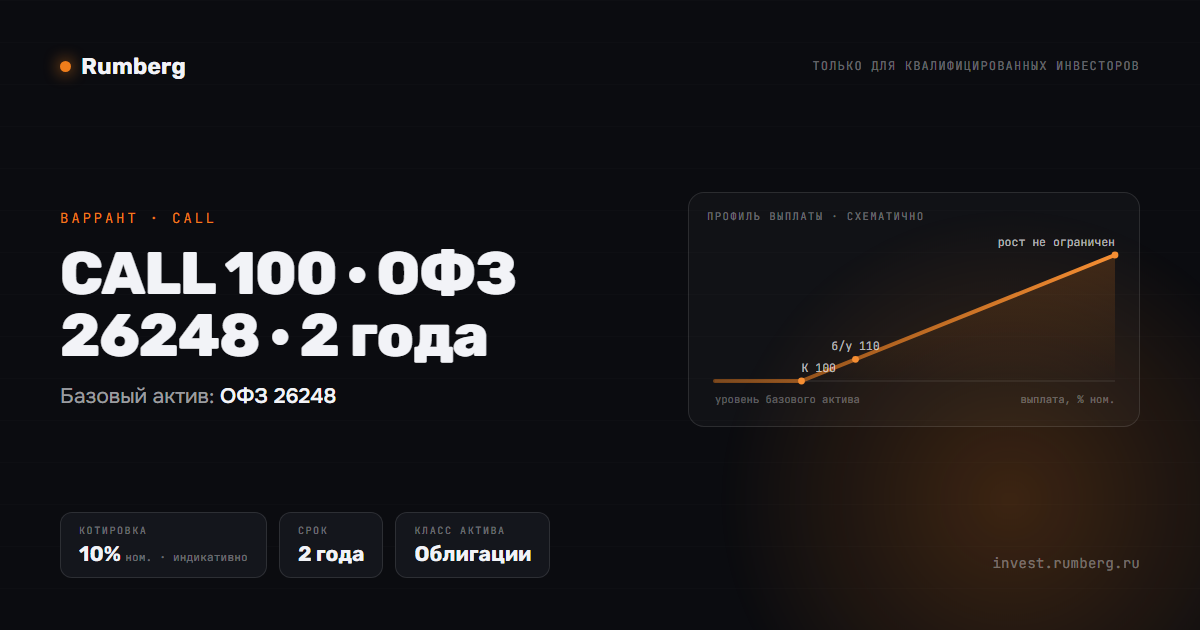
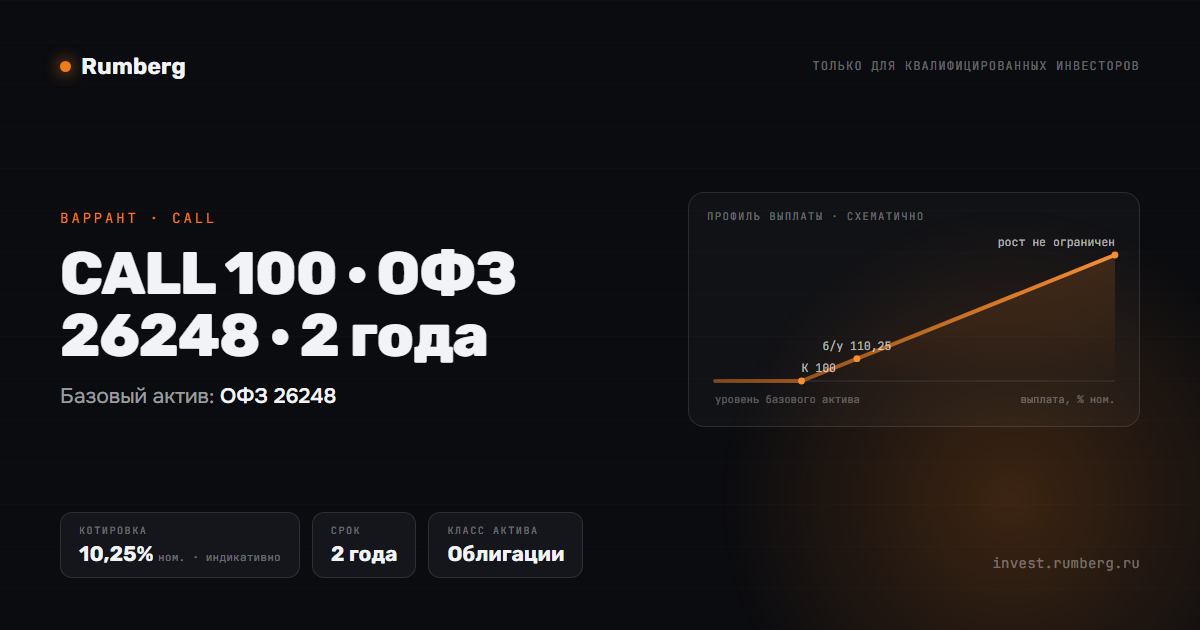
Доска: новые цены четырёх рублёвых варрантов по прайсеру
Сверка 28.10.2026: цена прайсера / 0,8 с округлением вверх до 0,25.
- CALL 100 · худшая из Полюс/Сбер/Лукойл · 2 года: 13,75 → 17,5
  (справедливая 13,81 — доска стояла ниже неё)
- CALL 100 · худшая из Яндекс/Новатэк/Лукойл · 2 года: 16,5 → 21,5
  (справедливая 17,12)
- CALL 105 · ОФЗ 26248 · 2 года: 7 → 8,75 (справедливая 6,86)
- CALL 100 · ОФЗ 26248 · 2 года: 10 → 10,25 (справедливая 8,13)

ОФЗ посчитаны от биржевой цены 80,19 (spot_overrides): условная ОФЗ
у прайсера стоит по 93, и от неё колл выходит дороже. Ставка 14%.
Перегенерированы превью p/ и og-картинки этих продуктов.

Changed region(s): [[0.0925, 0.8143, 0.4933, 0.9048], [0.6783, 0.5429, 0.74, 0.573]]

diff --git a/p/W-WO3YNL-C100-1028.html b/p/W-WO3YNL-C100-1028.html
@@ -4,12 +4,12 @@
 <meta charset="utf-8">
 <meta name="viewport" content="width=device-width, initial-scale=1">
 <title>CALL 100 · худшая из корзины · 2 года — Rumberg</title>
-<meta name="description" content="Варрант на Яндекс / Новатэк / Лукойл · котировка 16,5% от номинала · Rumberg — структурные продукты для квалифицированных инвесторов">
+<meta name="description" content="Варрант на Яндекс / Новатэк / Лукойл · котировка 21,5% от номинала · Rumberg — структурные продукты для квалифицированных инвесторов">
 <meta property="og:type" content="website">
 <meta property="og:site_name" content="Rumberg">
 <meta property="og:locale" content="ru_RU">
 <meta property="og:title" content="CALL 100 · худшая из корзины · 2 года">
-<meta property="og:description" content="Варрант на Яндекс / Новатэк / Лукойл · котировка 16,5% от номинала · Rumberg — структурные продукты для квалифицированных инвесторов">
+<meta property="og:description" content="Варрант на Яндекс / Новатэк / Лукойл · котировка 21,5% от номинала · Rumberg — структурные продукты для квалифицированных инвесторов">
 <meta property="og:url" content="https://invest.rumberg.ru/p/W-WO3YNL-C100-1028.html">
 <meta property="og:image" content="https://invest.rumberg.ru/og/W-WO3YNL-C100-1028.png">
 <meta property="og:image:width" content="1200">

diff --git a/p/W-WO3-C100-0828.html b/p/W-WO3-C100-0828.html
@@ -4,12 +4,12 @@
 <meta charset="utf-8">
 <meta name="viewport" content="width=device-width, initial-scale=1">
 <title>CALL 100 · худшая из корзины · 2 года — Rumberg</title>
-<meta name="description" content="Варрант на Полюс / Сбербанк / Лукойл · котировка 13,75% от номинала · Rumberg — структурные продукты для квалифицированных инвесторов">
+<meta name="description" content="Варрант на Полюс / Сбербанк / Лукойл · котировка 17,5% от номинала · Rumberg — структурные продукты для квалифицированных инвесторов">
 <meta property="og:type" content="website">
 <meta property="og:site_name" content="Rumberg">
 <meta property="og:locale" content="ru_RU">
 <meta property="og:title" content="CALL 100 · худшая из корзины · 2 года">
-<meta property="og:description" content="Варрант на Полюс / Сбербанк / Лукойл · котировка 13,75% от номинала · Rumberg — структурные продукты для квалифицированных инвесторов">
+<meta property="og:description" content="Варрант на Полюс / Сбербанк / Лукойл · котировка 17,5% от номинала · Rumberg — структурные продукты для квалифицированных инвесторов">
 <meta property="og:url" content="https://invest.rumberg.ru/p/W-WO3-C100-0828.html">
 <meta property="og:image" content="https://invest.rumberg.ru/og/W-WO3-C100-0828.png">
 <meta property="og:image:width" content="1200">

diff --git a/p/W-OFZ248-C100-1028.html b/p/W-OFZ248-C100-1028.html
@@ -4,12 +4,12 @@
 <meta charset="utf-8">
 <meta name="viewport" content="width=device-width, initial-scale=1">
 <title>CALL 100 · ОФЗ 26248 · 2 года — Rumberg</title>
-<meta name="description" content="Варрант на ОФЗ 26248 · котировка 10% от номинала · Rumberg — структурные продукты для квалифицированных инвесторов">
+<meta name="description" content="Варрант на ОФЗ 26248 · котировка 10,25% от номинала · Rumberg — структурные продукты для квалифицированных инвесторов">
 <meta property="og:type" content="website">
 <meta property="og:site_name" content="Rumberg">
 <meta property="og:locale" content="ru_RU">
 <meta property="og:title" content="CALL 100 · ОФЗ 26248 · 2 года">
-<meta property="og:description" content="Варрант на ОФЗ 26248 · котировка 10% от номинала · Rumberg — структурные продукты для квалифицированных инвесторов">
+<meta property="og:description" content="Варрант на ОФЗ 26248 · котировка 10,25% от номинала · Rumberg — структурные продукты для квалифицированных инвесторов">
 <meta property="og:url" content="https://invest.rumberg.ru/p/W-OFZ248-C100-1028.html">
 <meta property="og:image" content="https://invest.rumberg.ru/og/W-OFZ248-C100-1028.png">
 <meta property="og:image:width" content="1200">

diff --git a/p/W-OFZ248-C105-1028.html b/p/W-OFZ248-C105-1028.html
@@ -4,12 +4,12 @@
 <meta charset="utf-8">
 <meta name="viewport" content="width=device-width, initial-scale=1">
 <title>CALL 105 · ОФЗ 26248 · 2 года — Rumberg</title>
-<meta name="description" content="Варрант на ОФЗ 26248 · котировка 7% от номинала · Rumberg — структурные продукты для квалифицированных инвесторов">
+<meta name="description" content="Варрант на ОФЗ 26248 · котировка 8,75% от номинала · Rumberg — структурные продукты для квалифицированных инвесторов">
 <meta property="og:type" content="website">
 <meta property="og:site_name" content="Rumberg">
 <meta property="og:locale" content="ru_RU">
 <meta property="og:title" content="CALL 105 · ОФЗ 26248 · 2 года">
-<meta property="og:description" content="Варрант на ОФЗ 26248 · котировка 7% от номинала · Rumberg — структурные продукты для квалифицированных инвесторов">
+<meta property="og:description" content="Варрант на ОФЗ 26248 · котировка 8,75% от номинала · Rumberg — структурные продукты для квалифицированных инвесторов">
 <meta property="og:url" content="https://invest.rumberg.ru/p/W-OFZ248-C105-1028.html">
 <meta property="og:image" content="https://invest.rumberg.ru/og/W-OFZ248-C105-1028.png">
 <meta property="og:image:width" content="1200">

diff --git a/data/instruments.js b/data/instruments.js
@@ -152,7 +152,7 @@ window.SITE_DATA = {
       "uRef": "79,4% ном.",
       "spot": 100,
       "tenor": "2 года",
-      "quote": 10,
+      "quote": 10.25,
       "chg": 0,
       "minNom": 1000000
     },
@@ -168,7 +168,7 @@ window.SITE_DATA = {
       "uRef": "79,4% ном.",
       "spot": 100,
       "tenor": "2 года",
-      "quote": 7,
+      "quote": 8.75,
       "chg": 0,
       "minNom": 1000000
     },
@@ -1215,7 +1215,7 @@ window.SITE_DATA = {
       "strike": 100,
       "spot": 100,
       "tenor": "2 года",
-      "quote": 13.75,
+      "quote": 17.5,
       "chg": 0,
       "minNom": 1000000,
       "src": "sales"
@@ -1344,7 +1344,7 @@ window.SITE_DATA = {
       "strike": 100,
       "spot": 100,
       "tenor": "2 года",
-      "quote": 16.5,
+      "quote": 21.5,
       "chg": 0,
       "minNom": 1000000,
       "src": "sales"
